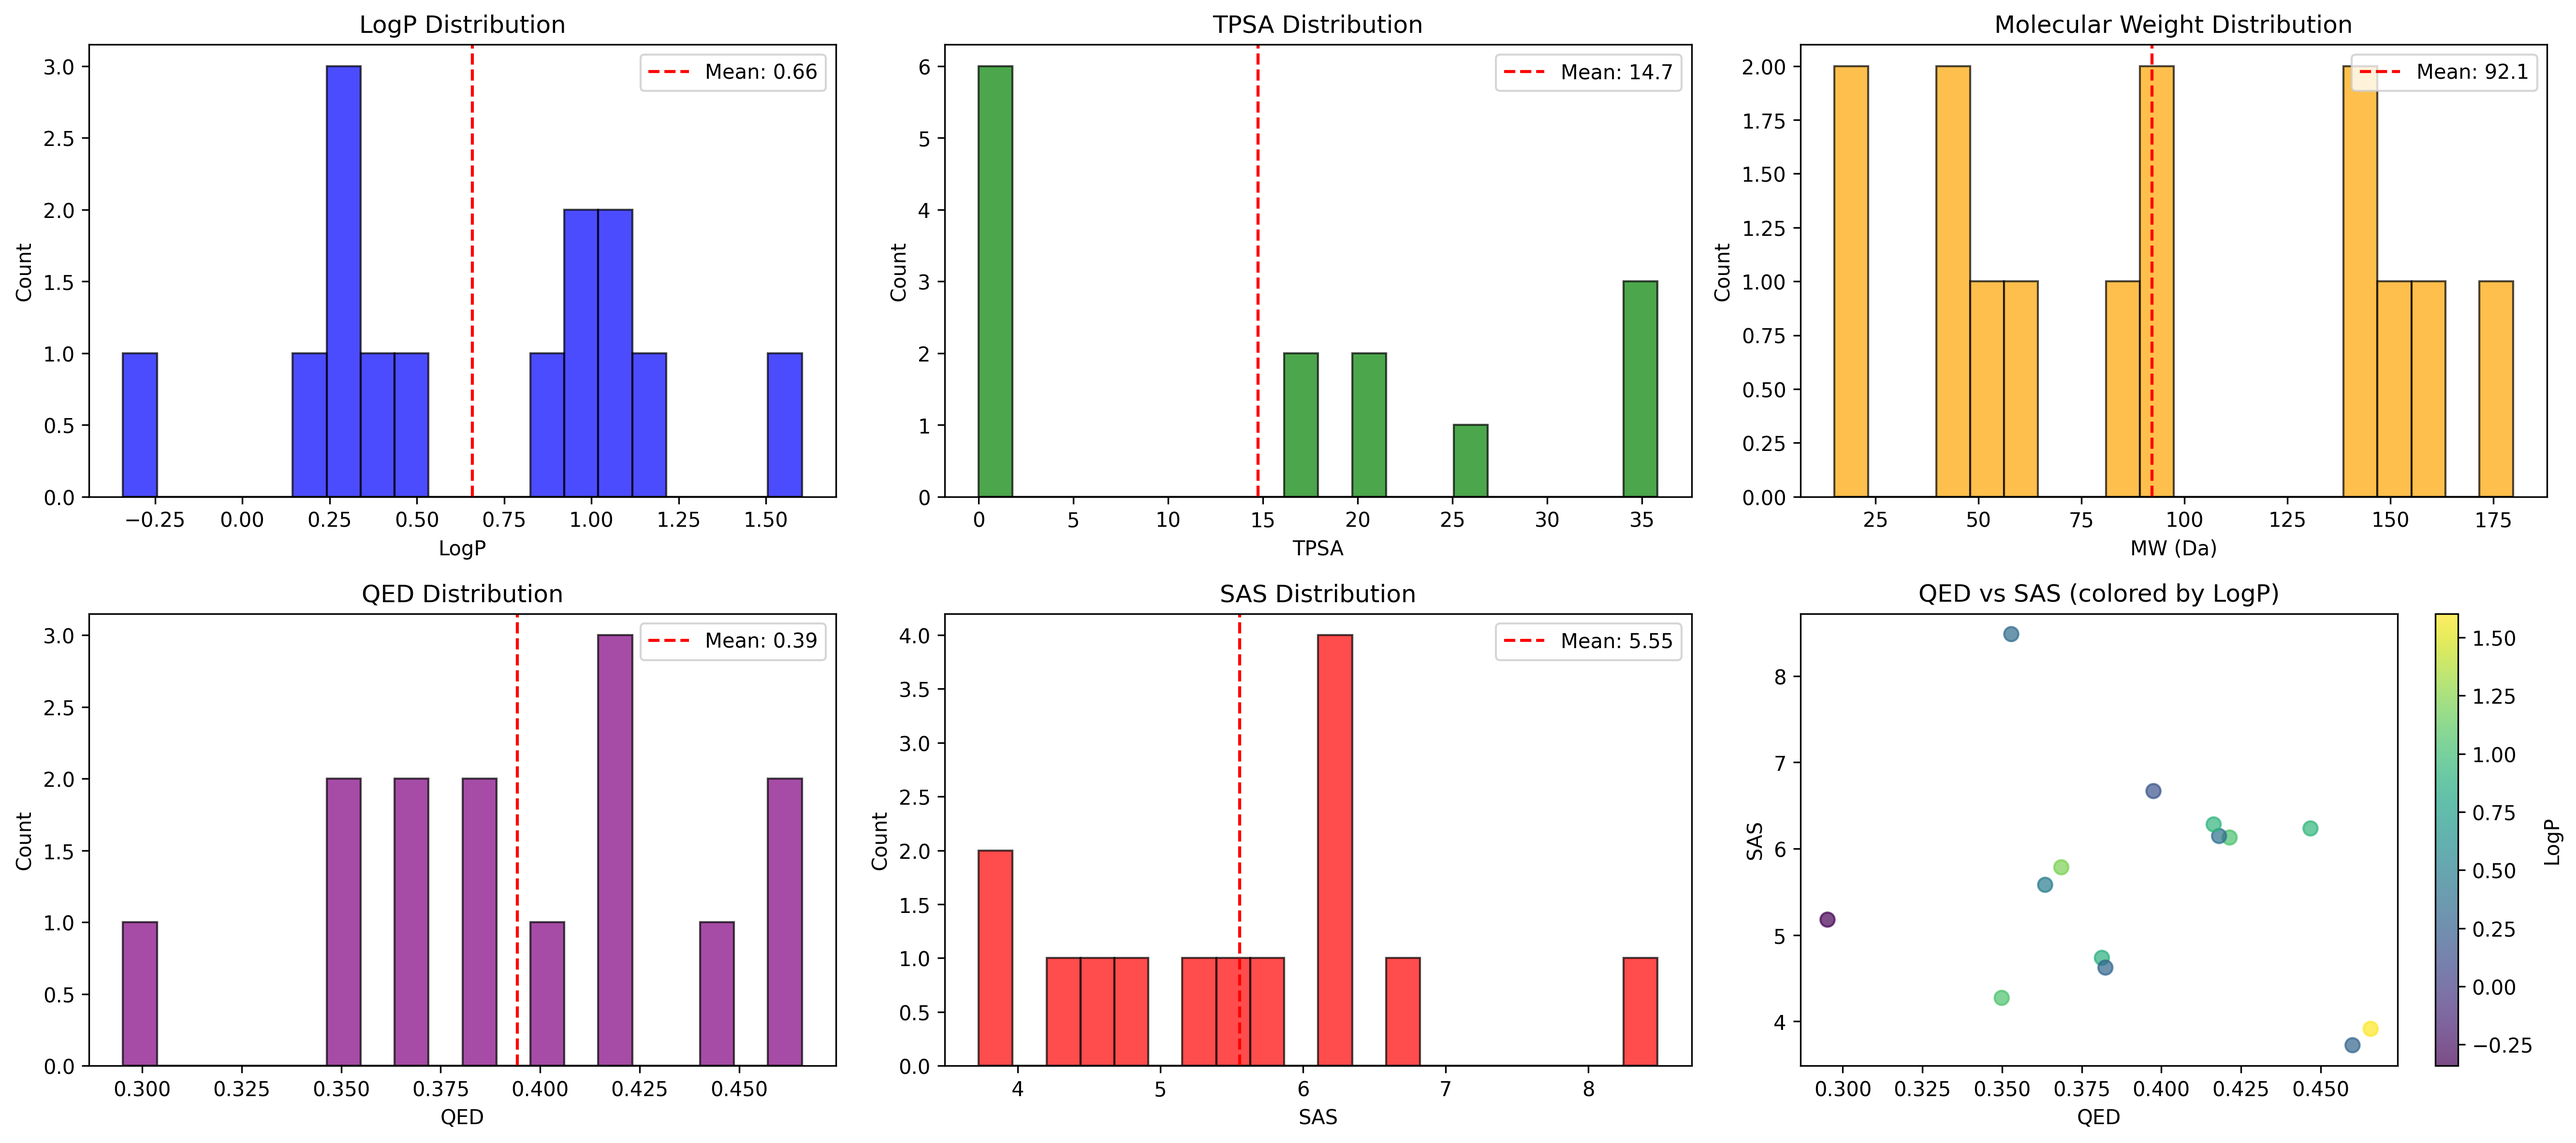
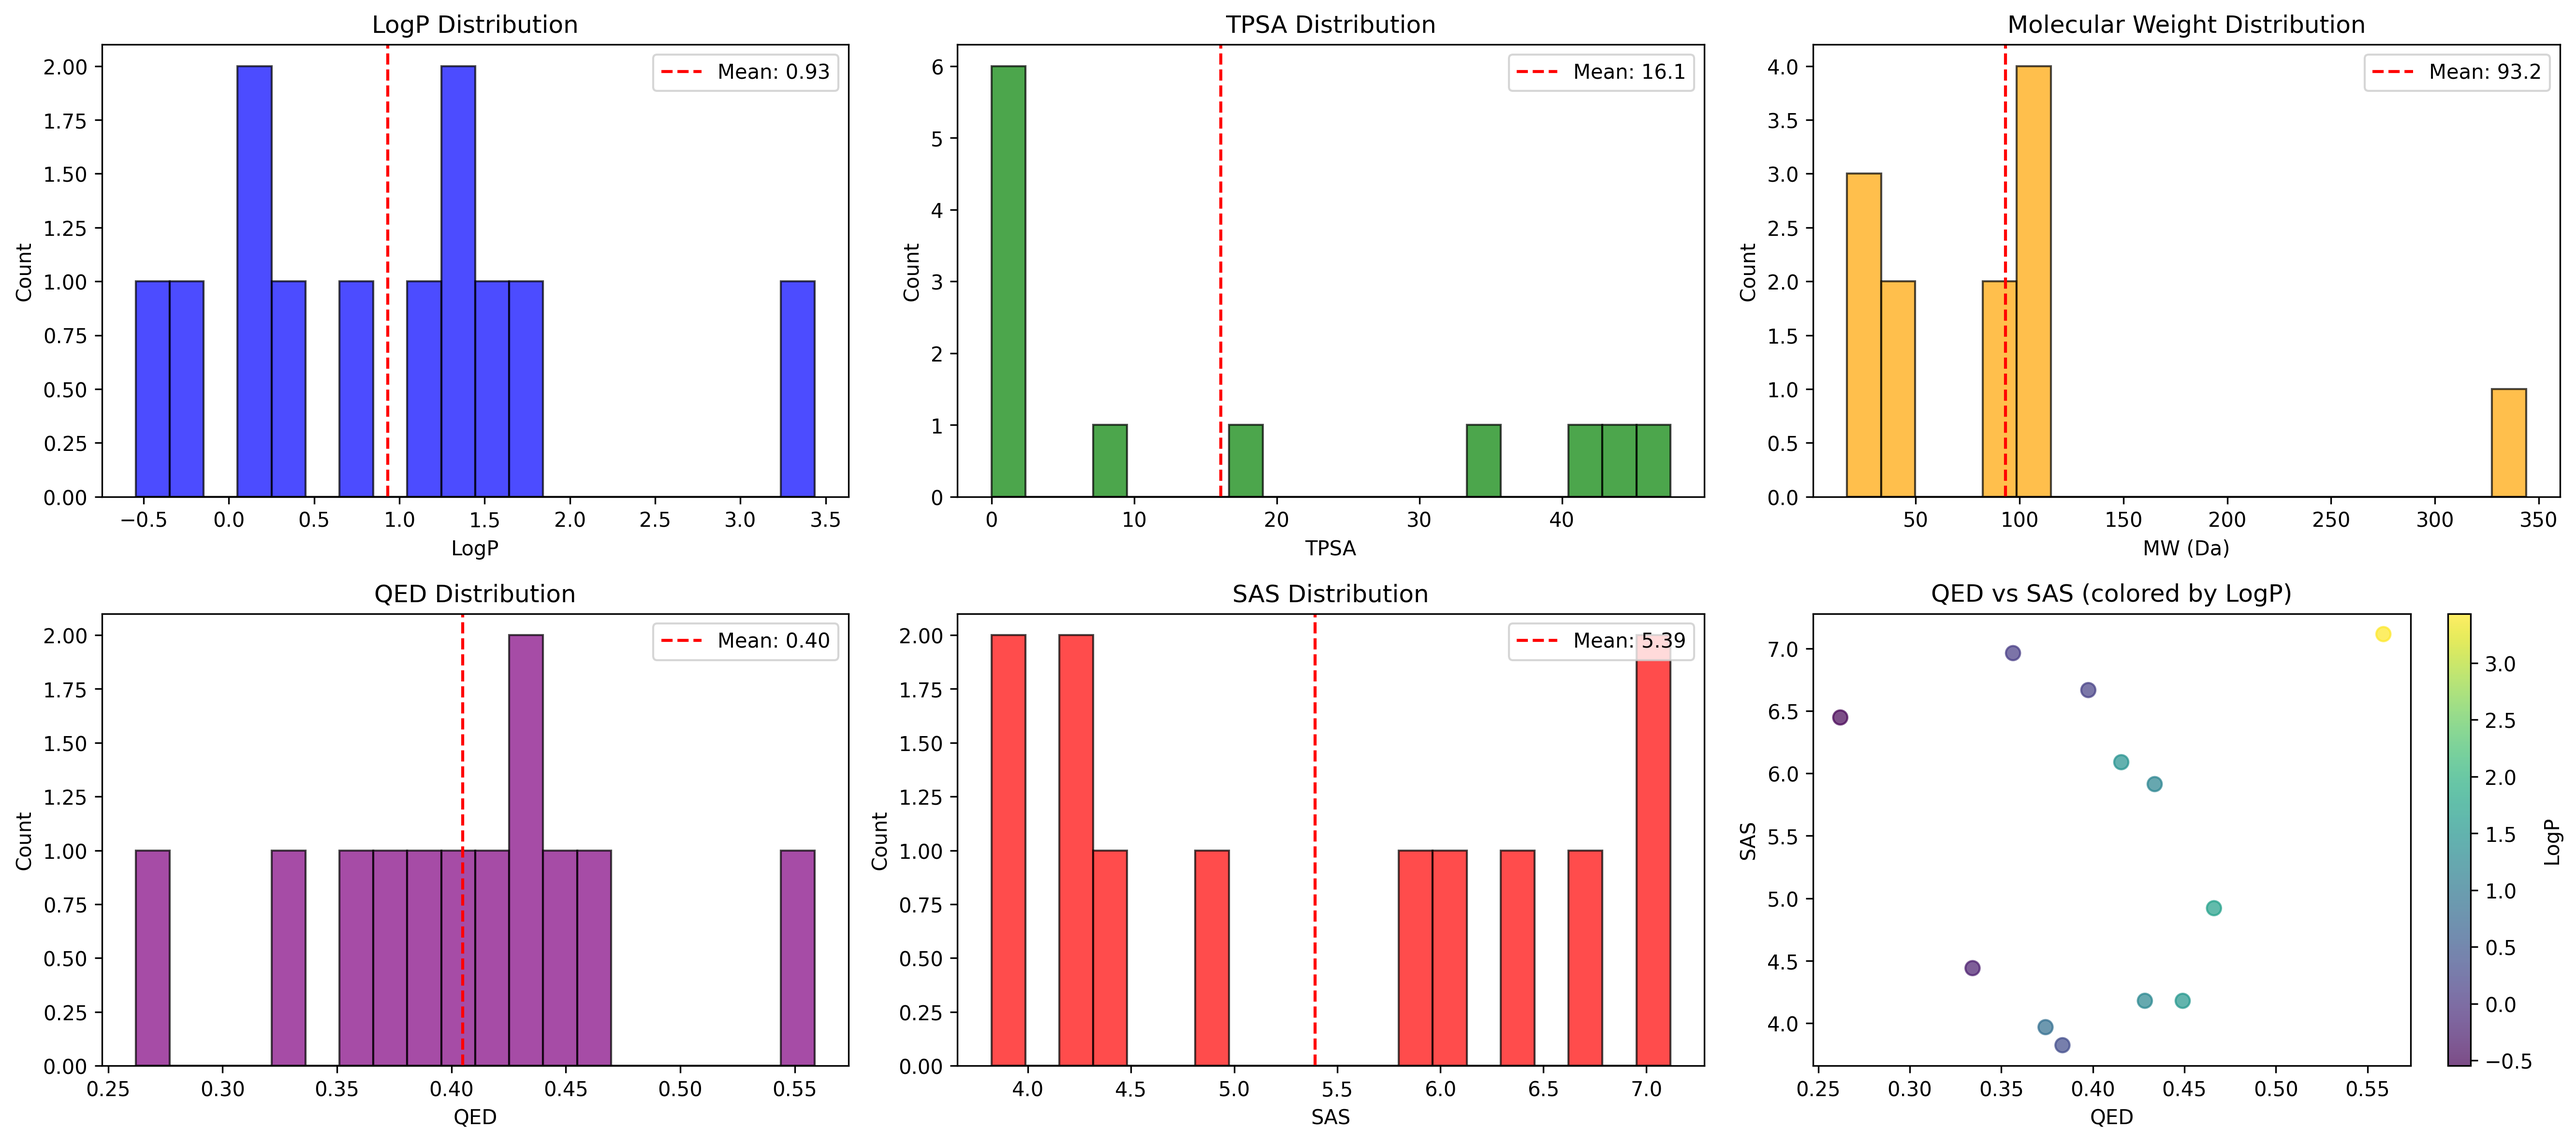
Add LogP KL regularization to fix conditioning
Problem: Only TPSA had KL loss, LogP had none
Fix: Added logp_mu and logp_logvar prior networks
- Both properties now condition the latent prior
- Averaging TPSA and LogP prior networks for dual conditioning
- This adds KL regularization for LogP during training

Now both properties will learn to structure latent space.

diff --git a/models/transformer_vae.py b/models/transformer_vae.py
@@ -46,8 +46,19 @@ class SelfiesTransformerVAE(nn.Module):
             nn.Linear(hidden_dim, latent_dim)
         )
         
-        # LogP conditioning (separate, independent modulation)
-        # LogP only modulates decoder features via FILM, doesn't affect prior
+        # LogP conditioning - BOTH prior network AND decoder
+        # LogP-conditioned latent distribution parameters (for prior p(z|c))
+        self.logp_mu = nn.Sequential(
+            nn.Linear(1, hidden_dim),
+            nn.ReLU(),
+            nn.Linear(hidden_dim, latent_dim)
+        )
+        self.logp_logvar = nn.Sequential(
+            nn.Linear(1, hidden_dim),
+            nn.ReLU(),
+            nn.Linear(hidden_dim, latent_dim)
+        )
+        # LogP encoder for decoder conditioning
         self.logp_encoder = nn.Sequential(
             nn.Linear(1, hidden_dim),
             nn.ReLU(),
@@ -112,10 +123,23 @@ class SelfiesTransformerVAE(nn.Module):
         mu, logvar = self.encoder(input_seq, tpsa_embedding)
         z = self.reparameterize(mu, logvar)
         
-        # TPSA-conditioned prior p(z | tpsa)
-        if tpsa_properties is not None:
+        # Property-conditioned priors p(z | properties)
+        # For KL computation, need both property_mu and property_logvar
+        # If both properties provided, combine them; else use single property
+        if tpsa_properties is not None and logp_properties is not None:
+            # Dual property conditioning: average the prior networks
+            tpsa_mu = self.property_mu(tpsa_properties)
+            tpsa_logvar = self.property_logvar(tpsa_properties)
+            logp_mu = self.logp_mu(logp_properties)
+            logp_logvar = self.logp_logvar(logp_properties)
+            property_mu = (tpsa_mu + logp_mu) / 2
+            property_logvar = (tpsa_logvar + logp_logvar) / 2
+        elif tpsa_properties is not None:
             property_mu = self.property_mu(tpsa_properties)
             property_logvar = self.property_logvar(tpsa_properties)
+        elif logp_properties is not None:
+            property_mu = self.logp_mu(logp_properties)
+            property_logvar = self.logp_logvar(logp_properties)
         else:
             property_mu = None
             property_logvar = None
@@ -167,9 +191,16 @@ class SelfiesTransformerVAE(nn.Module):
         tpsa_array = mx.array([[norm_tpsa]] * num_samples)  # [num_samples, 1]
         tpsa_embedding = self.property_encoder(tpsa_array)  # [num_samples, embedding_dim]
         
-        # Sample z from TPSA-conditioned prior
-        property_mu = self.property_mu(tpsa_array)  # [num_samples, latent_dim]
-        property_logvar = self.property_logvar(tpsa_array)  # [num_samples, latent_dim]
+        # Sample z from DUAL property-conditioned prior
+        # Average the TPSA and LogP prior networks
+        tpsa_mu = self.property_mu(tpsa_array)  # [num_samples, latent_dim]
+        tpsa_logvar = self.property_logvar(tpsa_array)  # [num_samples, latent_dim]
+        logp_mu = self.logp_mu(logp_array)  # [num_samples, latent_dim]
+        logp_logvar = self.logp_logvar(logp_array)  # [num_samples, latent_dim]
+        
+        # Combine both priors
+        property_mu = (tpsa_mu + logp_mu) / 2
+        property_logvar = (tpsa_logvar + logp_logvar) / 2
         
         std = mx.exp(0.5 * property_logvar)
         noise = mx.random.normal((num_samples, self.latent_dim))
